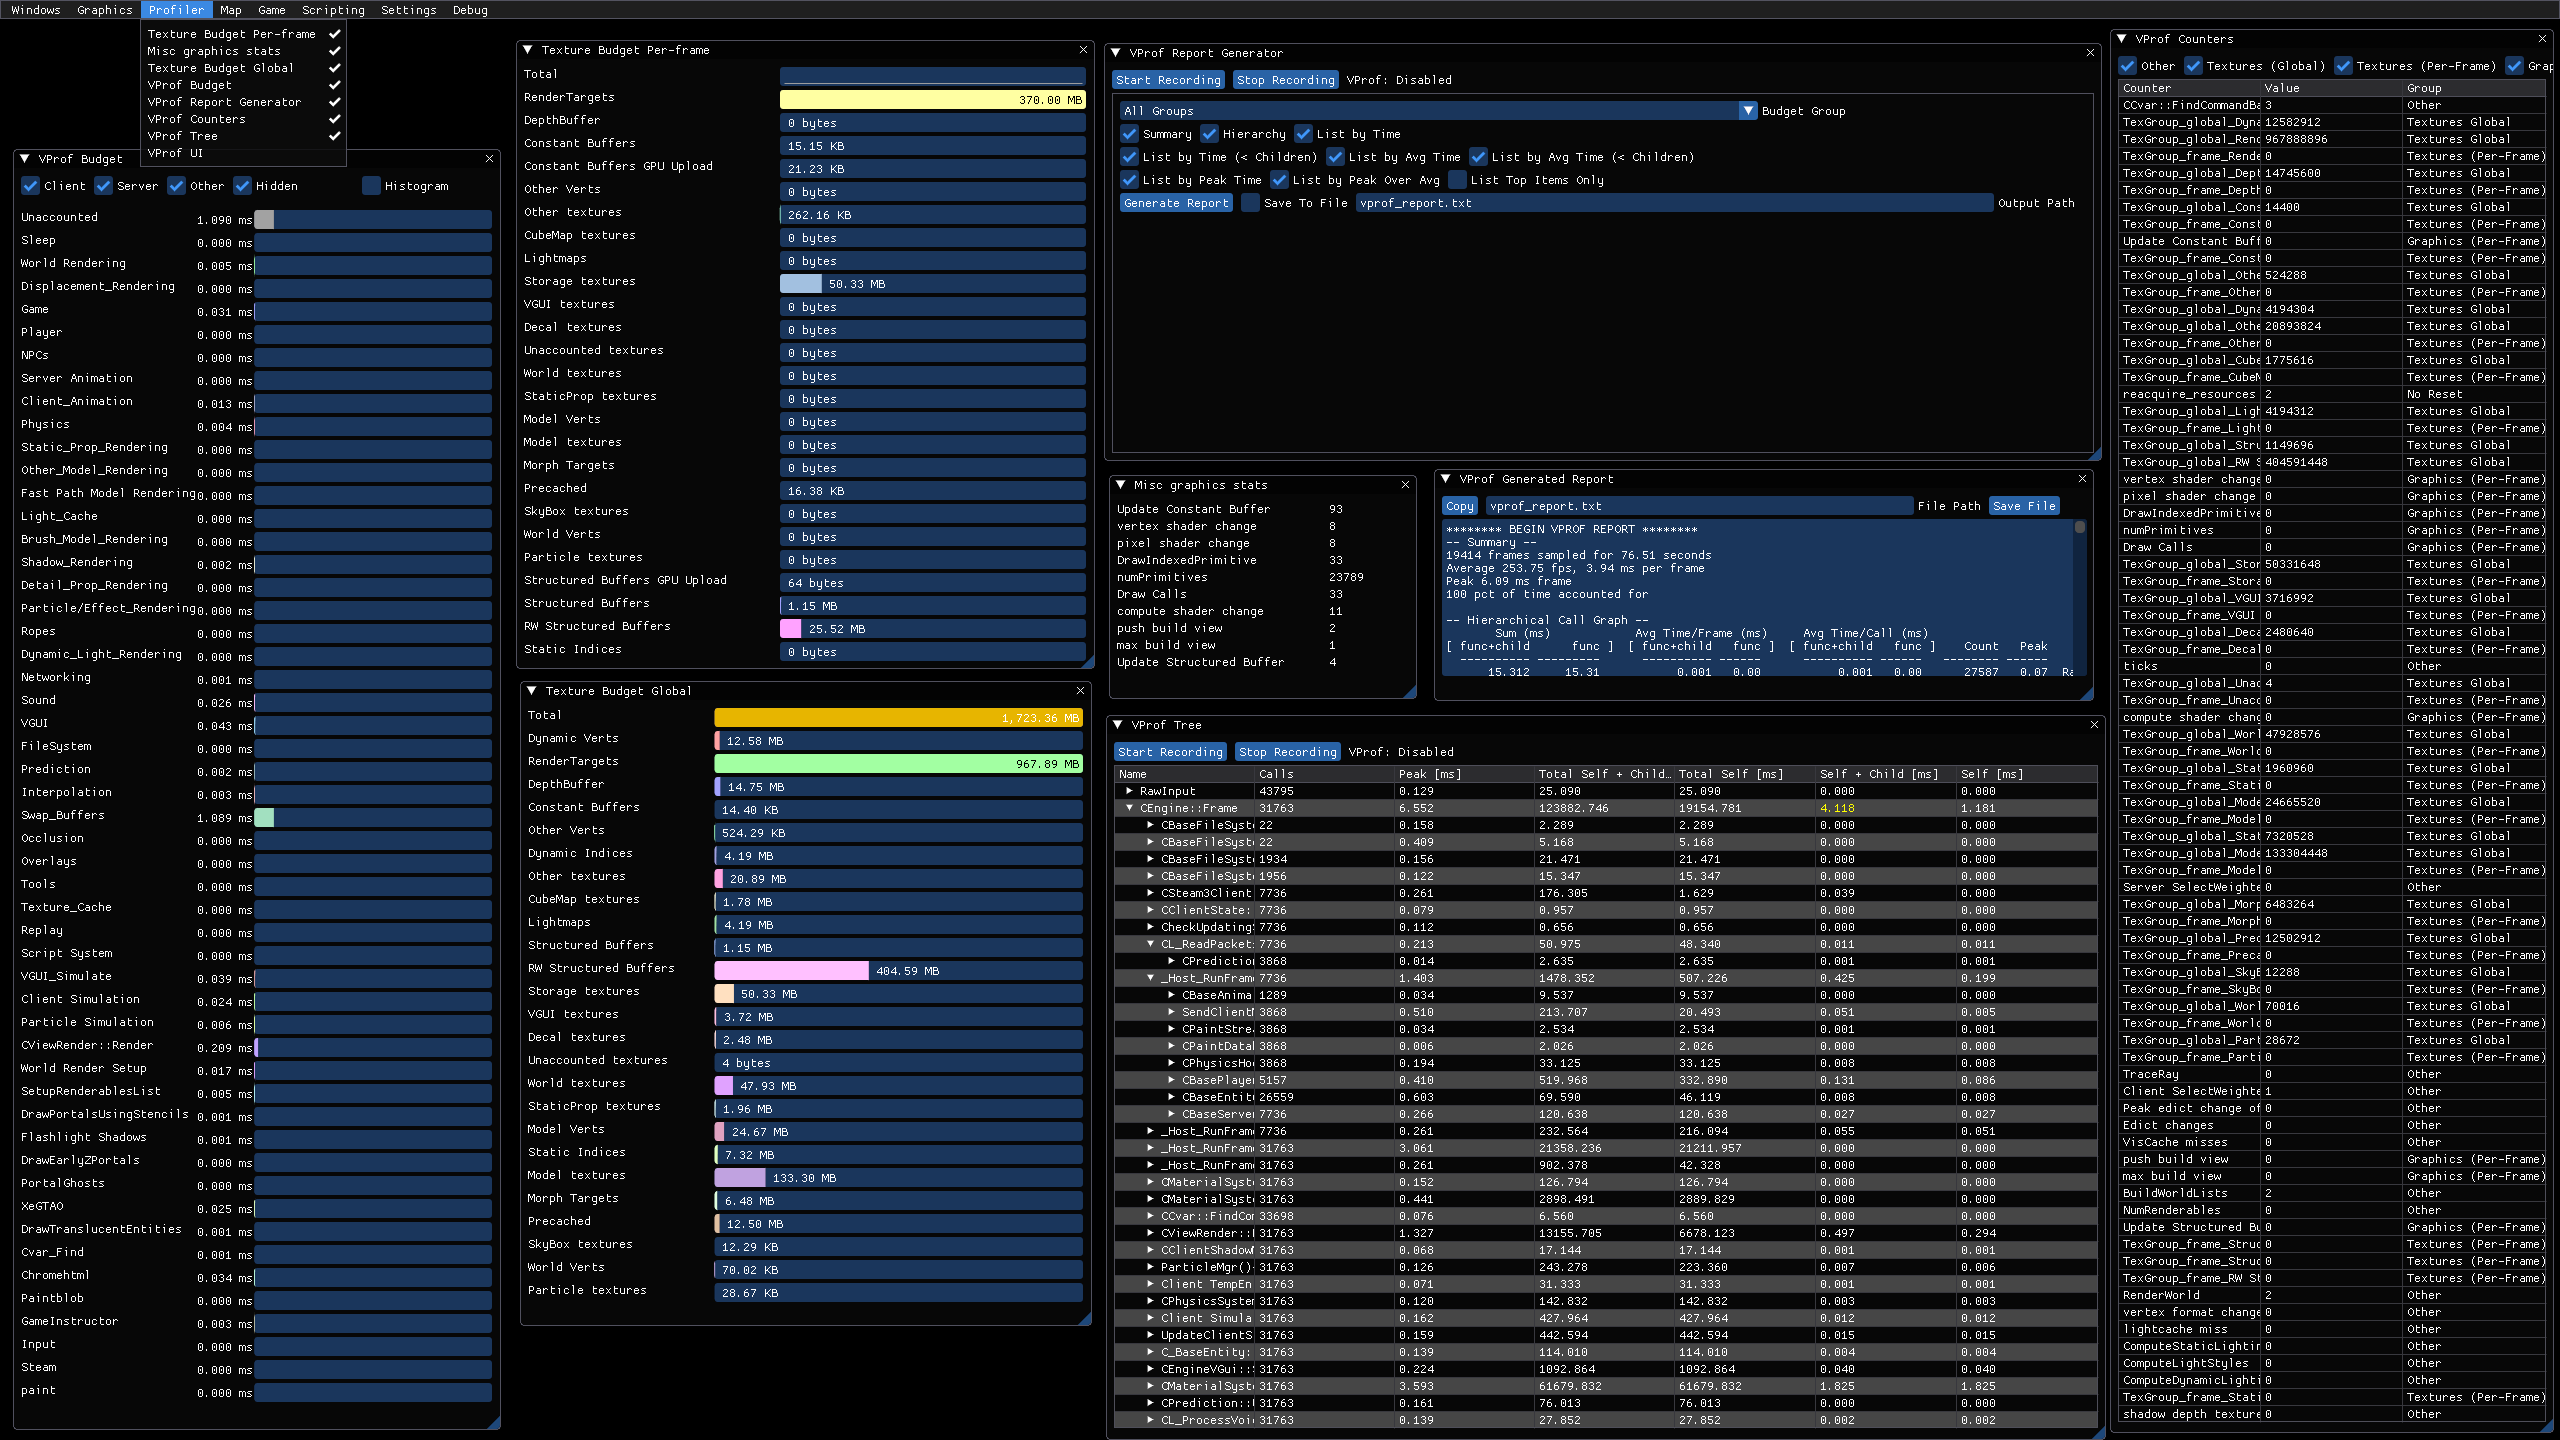
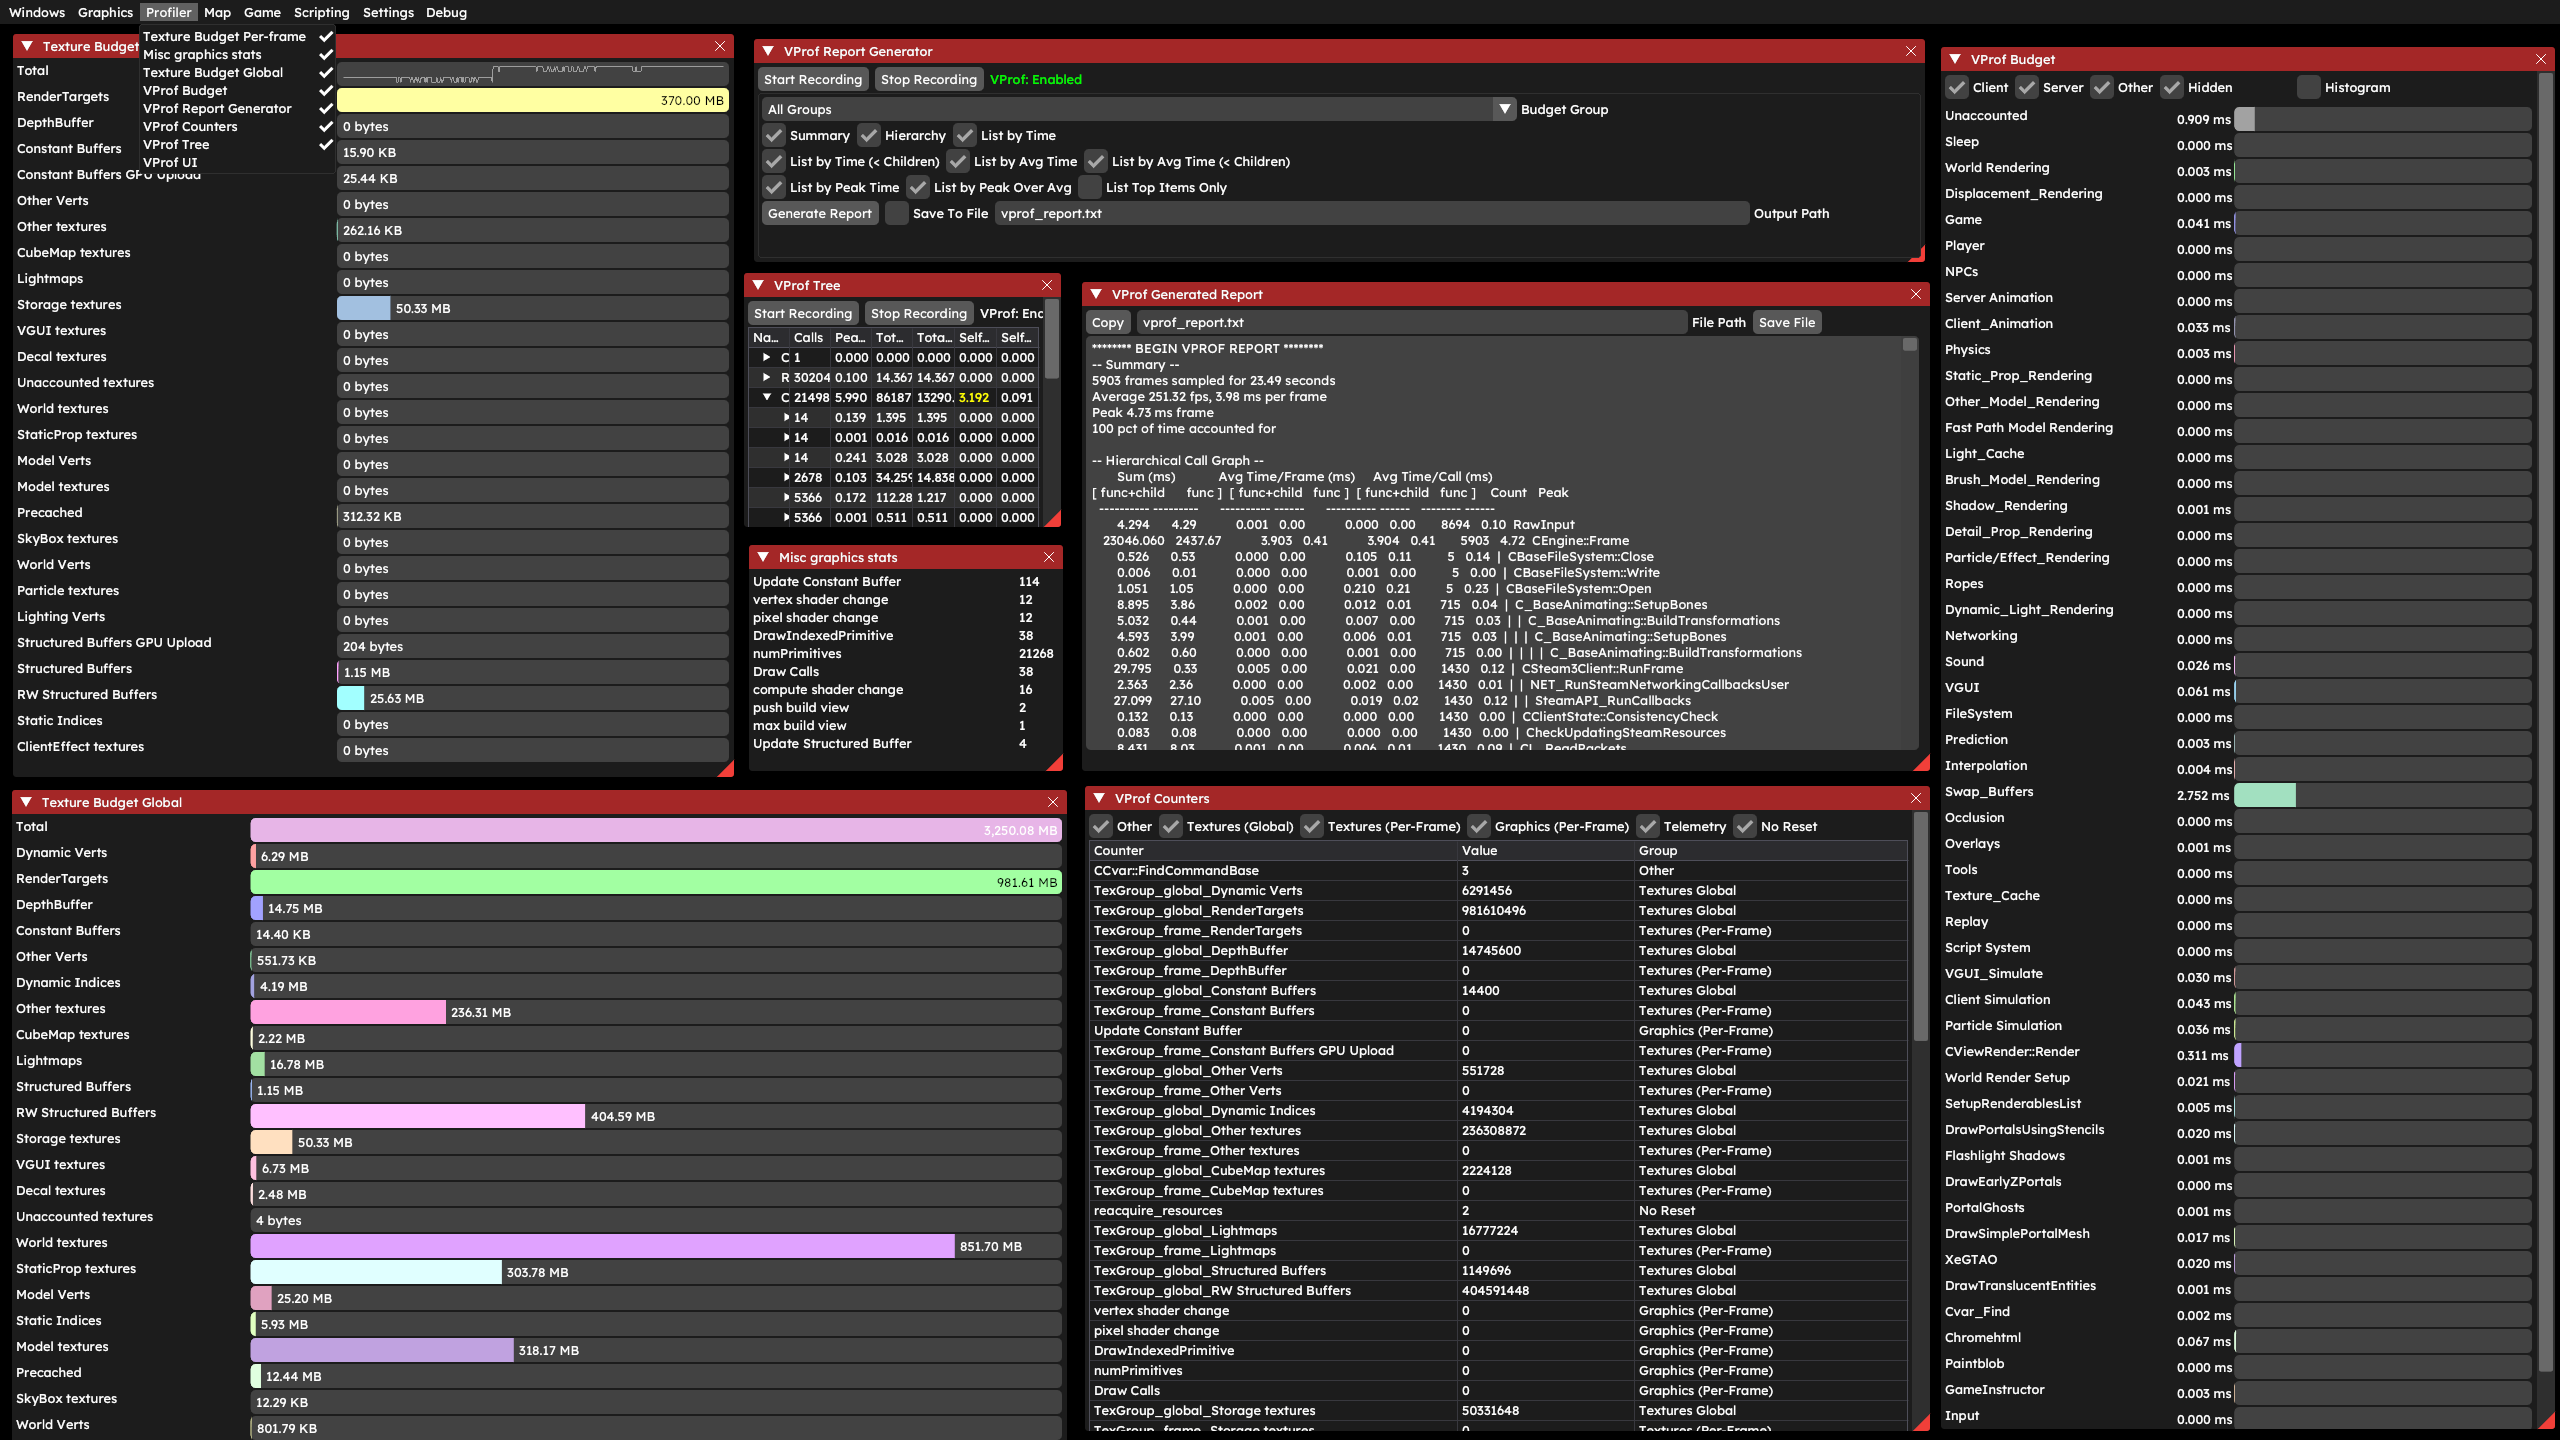
Finalised the categories of the devui pages.

diff --git a/docs/misc/devui/categories/profiler.md b/docs/misc/devui/categories/profiler.md
@@ -7,7 +7,7 @@ weight: 30
 
 # Profiler
 
-The Profiler tab is the third tab in the Developer UI menu. Its main purpose is dynamically debugging different aspects of the map and the engine, showing the exact budget and usage. Additionally, a `.txt` report can be generated, containing every event that happened in a specified period of time. The menus of this tab are useful for optimizing maps, materials and game events.
+The Profiler tab is the third tab in the Developer UI menu. Its main purpose is dynamically debugging different aspects of the map and the engine, showing the exact budget and usage. Additionally, a `.txt` report can be generated, containing every event that happened in a specified period of time. The menus of this tab are useful for optimizing maps, game events and material usage.
 
 ![All the menus of the Profiler tab](images/prof_all.png)
 
@@ -27,32 +27,32 @@ The graphs automatically update each frame, so it is easy to check for differenc
 
 There is a total of 27 graphs:
 * `Total` shows the total amount of GPU usage as a histogram
-* `RenderTargets` shows ...
-* `DepthBuffer` shows ...
-* `Constant Buffers` shows ...
-* `Constant Buffers GPU Upload` shows ...
-* `Other Verts` shows ...
-* `Other Textures` shows ...
+* `RenderTargets` shows the memory usage taken by render targets.
+* `DepthBuffer` shows the memory usage taken by the depth buffer.
+* `Constant Buffers` shows the memory usage taken by updating constant buffers.
+* `Constant Buffers GPU Upload` shows the memory usage taken by sending and receiving constant buffers from GPU.
+* `Other Verts` shows the memory usage taken by any other verticles.
+* `Other Textures` shows the memory usage taken by any other textures textures.
 * `CubeMap Textures` shows the memory usage taken by cubemap textures.
 * `Constant Buffer` shows the memory usage taken by lightmaps.
 * `Constant Buffer` shows the memory amount taken by buffered textures.
 * `VGUI textures` shows the memory usage taken by VGUI elements.
 * `Decal textures` shows the memory usage taken by decals and overlays.
-* `Unaccounted textures` shows memory usage taken by ... 
+* `Unaccounted textures` shows memory usage taken by missing textures.
 * `World textures` shows the memory usage taken by textures used on world geometry.
 * `StatisProp textures` shows the memory usage taken by textures used on static models.
-* `Model Verts` shows memory usage taken by ... 
+* `Model Verts` shows memory usage taken by model verticles.
 * `Model textures` shows the memory usage taken by textures used on dynamic and physics models.
 * `Precached` shows the memory amount taken by precached textures.
 * `SkyBox textures` shows the memory usage taken by skybox textures (applies to 3D skybox as well)
-* `World Verts` shows ... 
+* `World Verts` shows the memory usage taken by world verticles.
 * `Particle textures` shows the memory usage taken by particles.
-* `Lighting Verts` shows ... 
+* `Lighting Verts` shows the memory usage taken by lighting verticles.
 * `Structured Buffers GPU Upload` shows how much space individual buffers take before being sent to the GPU.
 * `Structured Buffers` shows how much space buffers take overall.
-* `RV Structured Buffers` shows ... 
-* `Static Indices` shows ... 
-* `ClientEffect textures` shows the memory usage taken by screen effects (lens circle, hints, etc)
+* `RV Structured Buffers` shows the memory usage taken by updating raw sctructured buffers.
+* `Static Indices` shows the memory usage taken by static indices. 
+* `ClientEffect textures` shows the memory usage taken by screen effects (lens circle, hints, etc).
 
 ![Texture Budget Per-Frame menu](images/prof_tbudget1-menu.png)
 
@@ -73,16 +73,16 @@ There is a total of 27 graphs. Their names, functionality and positions in the m
 Misc Graphics Tab is a small menu that shows the amount of calls sent to the GPU every frame. Values in the menu update each frame.
 
 There are 10 values in the menu:
-* `Update Constant Buffer` shows ...
+* `Update Constant Buffer` shows the amount of calls telling to update constant buffers.
 * `vertex shader change` shows the amount of calls telling to update model textures.
 * `pixel shader change` shows the amount of calls telling to update brush textures.
-* `DrawIndexedPrimitive` shows ... 
-* `numPrimitives` shows the total amount of ... 
+* `DrawIndexedPrimitive` shows the amount of calls telling to draw primitives.
+* `numPrimitives` shows the total amount of primitives drawn.
 * `DrawCalls` shows the amount of calls telling GPU to draw something.
-* `compute shader change` shows ...
-* `push build view` shows ...
-* `max build view` shows ...
-* `Update Structured Buffer` shows the amount of updates of the structured buffer. Always 4.
+* `compute shader change` shows the amount of calls telling to update shaders.
+* `push build view` shows the amount of calls telling to push the build view.
+* `max build view` shows the amount of build views.
+* `Update Structured Buffer` shows the amount of updates of the structured buffer. Should always be 4.
 
 ![Misc Graphics Tab](images/prof_misc.png)
 
@@ -97,10 +97,10 @@ VProf Budget shows how much time the GPU takes to render different parts of the 
 
 There are 54 graphs total:
 * `Unaccounted` shows the amount of time it takes to draw unaccounted textures.
-* `Sleep` shows ... 
+* `Sleep` shows the amount of time the engine intentionally slept.
 * `World Rendering` shows the amount of time it takes to draw world geometry.
 * `Displacement Rendering` shows the amount of time it takes to draw displacements.
-* `Game` shows the amount of time it takes to draw ... 
+* `Game` shows the amount of time it takes to draw the game.
 * `Player` shows the amount of time it takes to draw the playermodel and/or the visibility rays.
 * `NPCs` shows the amount of time it takes to draw NPCs.
 * `Server Animation` shows the amount of time it takes to draw server-side model animations.
@@ -108,22 +108,22 @@ There are 54 graphs total:
 * `Physics` shows the amount of time it takes to draw vphysics interactions.
 * `Static Prop Rendering` shows the amount of time it takes to draw static props.
 * `Other Model Rendering` shows the amount of time it takes to draw non-static props.
-* `Fast Path Model Rendering` shows the amount of time it takes to draw ...
+* `Fast Path Model Rendering` shows the amount of time it takes to calculate the fastest path for rending each dynamic model.
 * `Light Cache` shows the amount of time it takes to cache lights.
 * `Brush Model Rendering` shows the amount of time it takes to render brush entities.
-* `Shadow Rendering` shows the amount of time it takes to render shadows *(WHICH ONES??? 0.004 MS)*
+* `Shadow Rendering` shows the amount of time it takes to render cheap dynamic shadows.
 * `Detail Prop Rendering` shows the amount of time it takes to draw detail props.
 * `Particle/Effect Rendering` shows the amount of time it takes to draw particles and other particle-like effects (sparks, bullet shots, etc).
 * `Ropes` shows the amount of time it takes to draw ropes.
 * `Dynamic Light Rendering` is obsolete, supposed to draw render-to-texture shadows, but those were removed.
-* `Networking` shows the amount of time it takes to ... 
-* `Sound` shows the amount of time it takes to ...
+* `Networking` shows the amount of time it takes to connect to the network.
+* `Sound` shows the amount of time it takes to get information about the sounds playing.
 * `VGUI` shows the amount of time it takes to draw VGUI elements.
 * `FileSystem` shows the amount of time it takes to draw the filesystem, if any is on-screen.
 * `Prediction` shows the amount of time it takes to draw physics prediction, if the debug tool is enabled.
-* `Interpolation` shows the amount of time it takes to ...
-* `Swap Bullets` shows the amount of time it takes to ...
-* `Occlusion` shows the amount of time it takes to ... *(NOT XeGTAO!!)*
+* `Interpolation` shows the amount of time it takes to interpolate.
+* `Swap Bullets` shows the amount of time it takes to swap the bullets.
+* `Occlusion` shows the amount of time it takes to draw basic occlusion. Not to be confused with the new dynamic AO.
 * `Overlays` shows the amount of time it takes to draw decals and overlays.
 * `Tools` shows the amount of time it takes to draw the engine tools (-tools launch option)
 * `Texture Cache` shows the amount of time it takes to cache textures (always shows 0 ms)
@@ -132,22 +132,22 @@ There are 54 graphs total:
 * `VGUI Simulate` shows the amount of time it takes to simulate VGUI elements on-screen (for hints).
 * `Client Simulation` shows the amount of time it takes to calculate the client-side rendering calculations.
 * `Particle Simulation` shows the amount of time it takes to calculate the particles.
-* `CViewRender::Render` shows the amount of time it takes to ... 
-* `World Render Setup` shows the amount of time it takes to ...
-* `SetupRenderablesList` shows the amount of time it takes to ...
-* `DrawPortalsUsingStencils` shows the amount of time it takes to ... 
-* `Flashlight Shadows` shows the amount of time it takes to render player's flashlight (impulse 103)
-* `Fast Path Brush Rendering` shows the amount of time it takes to ... *(ABSURDLY HEAVY!!! >15 MS)*
+* `CViewRender::Render` shows the amount of time it takes to render the player view.
+* `World Render Setup` shows the amount of time it takes to set up the player view.
+* `SetupRenderablesList` shows the amount of time it takes to set up renderables.
+* `DrawPortalsUsingStencils` shows the amount of time it takes to render portals using stencils.
+* `Flashlight Shadows` shows the amount of time it takes to render player's flashlight (impulse 103).
+* `Fast Path Brush Rendering` shows the amount of time it takes to calculate the fastest path for rending each dynamic brush.
 * `DrawEarlyZPortals` shows the amount of time it takes to calculate the relative view position between the player and the portal.
 * `PortalGhosts` shows the amount of time it takes to draw the portal ghosts.
 * `DrawSimplePortalMesh` shows the amount of time it takes to draw the simple mesh in the portal view.
 * `XeGTAO` shows the amount of time it takes to draw the new XeGT Ambient Occlusion.
 * `DrawTranslucentEntities` shows the amount of time it takes to draw translucent entities.
-* `Cvar Find` shows the amount of time it takes to ... 
+* `Cvar Find` shows the amount of time it takes to find a cvar.
 * `ChromeHTML` shows the amount of time it takes to draw the HTML web-page, if any is visible.
 * `Paintblob` shows the amount of time it takes to draw a paint blob.
-* `GameInstructor` shows the amount of time it takes to draw ... *(are those hints)*
-* `Input` shows the amount of time it takes to ...
+* `GameInstructor` shows the amount of time it takes to draw on-screen hints.
+* `Input` shows the amount of time it takes to calculate inputs received.
 * `Steam` shows the amount of time it takes to render the Steam overlay.
 * `paint` shows the amount of time it takes to draw paint.
 * `CBaseEntity::EmitSound` shows the amount of time it takes to calculate the visual ambiance of the sound.
@@ -170,15 +170,15 @@ The menu has the following functionality:
 The menu has the following filters:
 
 * `Budget Group` is a dropdown filter, allows to select a specific budget filter from the VProf Budget list.
-* `Summary` ... 
-* `Hierarchy` ... 
+* `Summary` lists the events as a summary of all the data.
+* `Hierarchy` lists the events taking into account the hierarchy.
 * `List by Time` lists the events by their date
-* `List By Time (< Children)` ... 
+* `List By Time (< Children)` lists the events by their date excluding children in hierarchy
 * `List by Avg Time` lists the events by the average time they took.
-* `List by Avg Time (< Children)` ... 
+* `List by Avg Time (< Children)` lists the events by the average time they took excluding children in hierarchy
 * `List by Peak Time` lists the events from the longest to the shortest.
-* `List by Avg Time (< Children)` ... 
-* `List by Peak Over Avg` ... 
+* `List by Avg Time (< Children)` lists the events from the longest to the shortest excluding children in hierarchy
+* `List by Peak Over Avg` lists the events from the longest to the shortest, ignoring average time if events have the same execution time
 * `List Top Items Only` lists only the top items, ignoring minor events
 
 ![VProf Report Generator](images/prof_vreport.png)

diff --git a/docs/misc/devui/categories/game.md b/docs/misc/devui/categories/game.md
@@ -29,17 +29,17 @@ The menu is a table of events, it has the following columns:
 * `Reliable?` shows if this event is reliable to use. Should always be true.
 * `Event ID` shows the ID of the event. The events table shows events with low IDs higher up in the table.
 * `Local?` shows is the event local or global.
-* `Serialized Bits` ... *sometimes a number, but usually 0.*
+* `Serialized Bits` shows serialized bits of the event.
 
 ![Game Events Debugger](images/game_event.png)
 
 ### Event Log
 
-Shows ... *nothing, apparently.*
+Shows all the events that have been executed during the recording.
 
 This menu has the following functionality:
 * `Filter` is a text entry to filter entities by the text put in it.
-* `Recording` ...
+* `Recording` is a checkbar that toggles the recording.
 * `Clear Event Log` is a button that clears the log below.
 * Event log table is a table that contains the events that happened in a period of time. Can be sorted by `Time`, `Event Name` or `Event Data`.
 
@@ -106,10 +106,10 @@ Client Anim Debug is identical to the Server Anim Debug menu, except it hooks up
  ... *What is this even about?*
 
 There are 4 values in this menu:
-* `m_Up` is a vector showing ...
-* `m_vEyeOffset` is a vector showing ...
+* `m_Up` is the up vector.
+* `m_vEyeOffset` is a vector showing the eye offset from the view.
 * `m_vecOrigin` is a vector showing the origin of player's eyes.
-* `m_qQuaternionPunch` is a vector showing ...
+* `m_qQuaternionPunch` is a vector showing the quaternion punch of the view.
 
 ![Server Anim Debug](images/game_cam.png)
 

diff --git a/docs/misc/devui/categories/graphics.md b/docs/misc/devui/categories/graphics.md
@@ -3,10 +3,6 @@ title: Graphics
 weight: 20
 ---
 
-> graphics_pp_dof.png IS MISSING
-
-> Redo graphics_vol_fog.png, graphics_csm.gif and graphics_pp_bloom.png
-
 # Graphics
 
 The graphics tab is the most popular among all the other tab in the Developer UI, mainly because of its functionality. It contains everything needed to debug lighting, post processing effects and graphics in general.
@@ -57,7 +53,7 @@ Clustered Volumetrics Inspector allows setting the volumetrical value for all cl
 
 ![CVI Menu](images/graphics_vol-menu.png)
 
-If an `obb_fogvolume` entity is specified in the fogvolume list, the following properties will be able to be changed:
+If an `obb_fogvolume` entity is specified in the fogvolume list, the following properties will appear:
 * `Position` of the fog entity, with the value being the center of the fog;
 * `Angles` of the fog entity;
 * `Half Size` of the fog, which is split into width, length and height;
@@ -66,8 +62,6 @@ If an `obb_fogvolume` entity is specified in the fogvolume list, the following p
 * `Emissive Color`, which is the color of the fog itself;
 * `Scattering color`, which is the color of the volumetric rays that go through the fog's volume;
 * `Fog Phase`, which is similar to the `Default Fog Phase` except it is applied individually to this `obb_fogvolume`.
-
-![CVI Fog Editor](images/graphics_vol_fog.png)
 
 ****
 

diff --git a/docs/misc/devui/categories/windows.md b/docs/misc/devui/categories/windows.md
@@ -3,8 +3,6 @@ title: Windows
 weight: 10
 ---
 
-> Redo windows.png and windows_dm_ai2.png
-
 # Windows
 
 The Windows tab is the first tab in the Developer UI menu. It contains various options that control different parts of the engine, from material properties to NPC behaviors. Being very useful for debugging entities and rendering, it has proven to be a great replacement for the basic console commands, making debugging faster and easier.